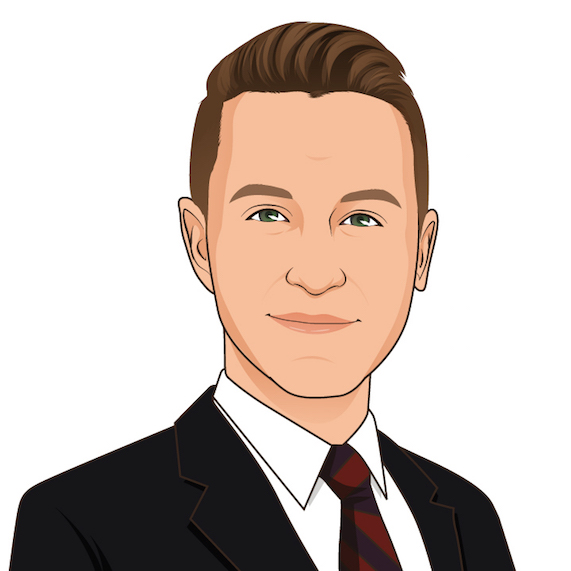
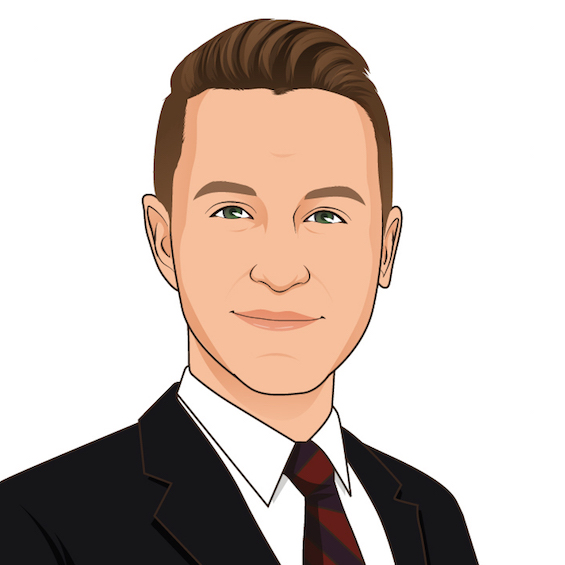
Update pro pic cropping

diff --git a/index.html b/index.html
@@ -79,7 +79,7 @@
         <hr>
         <p>I'm a student and entrepreneur who's passionate about<br>
           designing and building beautiful software.
-          <a href=mailto:steve@stevenjon.es target=_blank>Contact me.</a></p>
+          <a href="#contact" target="_blank" class="page-scroll">Contact me.</a></div></p>
           <div class="row">
             <a href="SteveJones-Resume.pdf" target="_blank" class="btn btn-primary btn-xl page-scroll">Résumé</a>
             <a href="#Projects" target="_blank" class="btn btn-primary btn-xl page-scroll">Projects</a>
